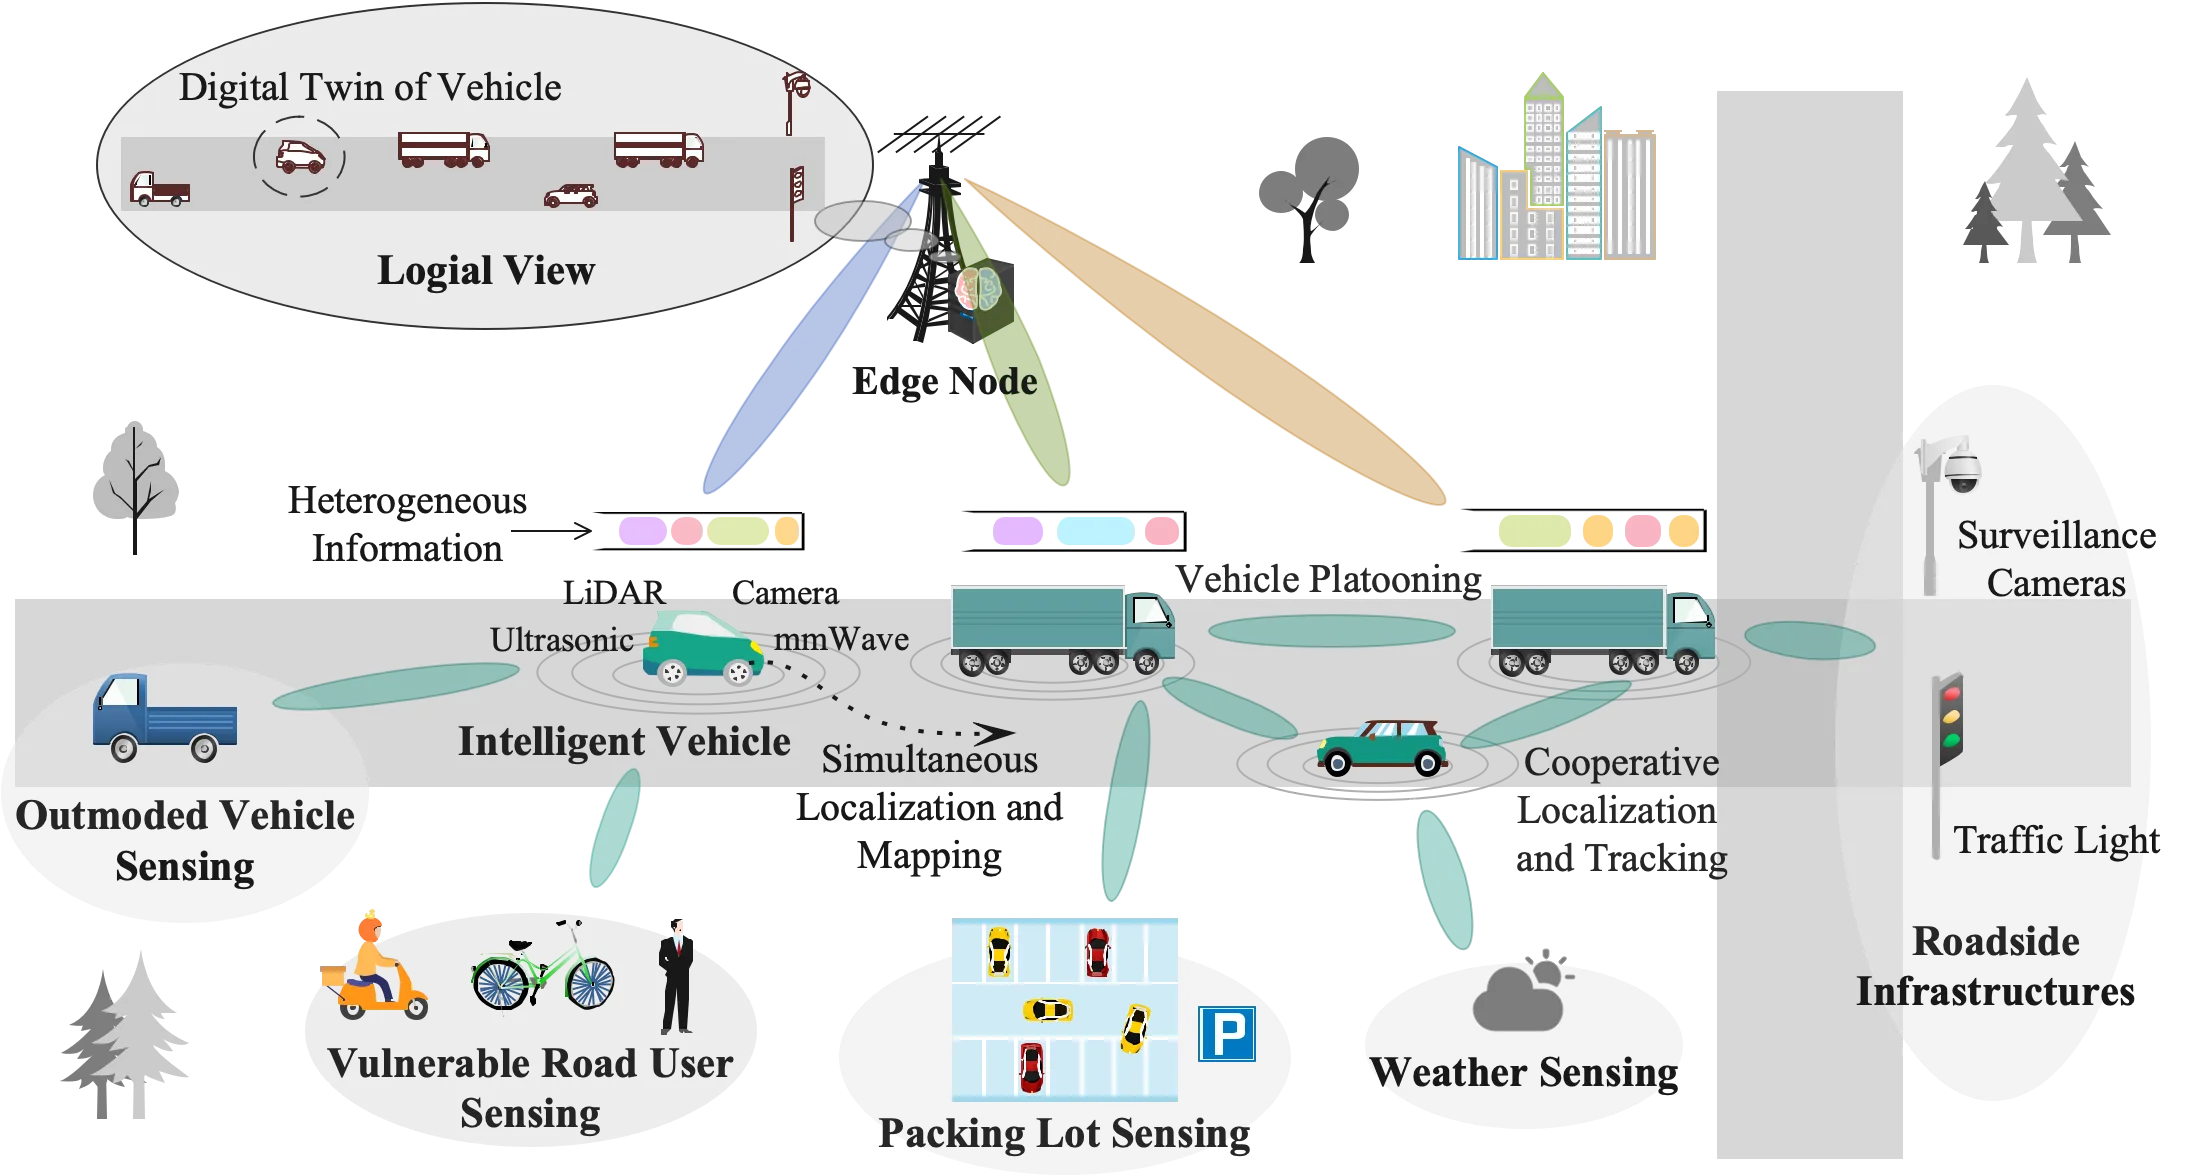
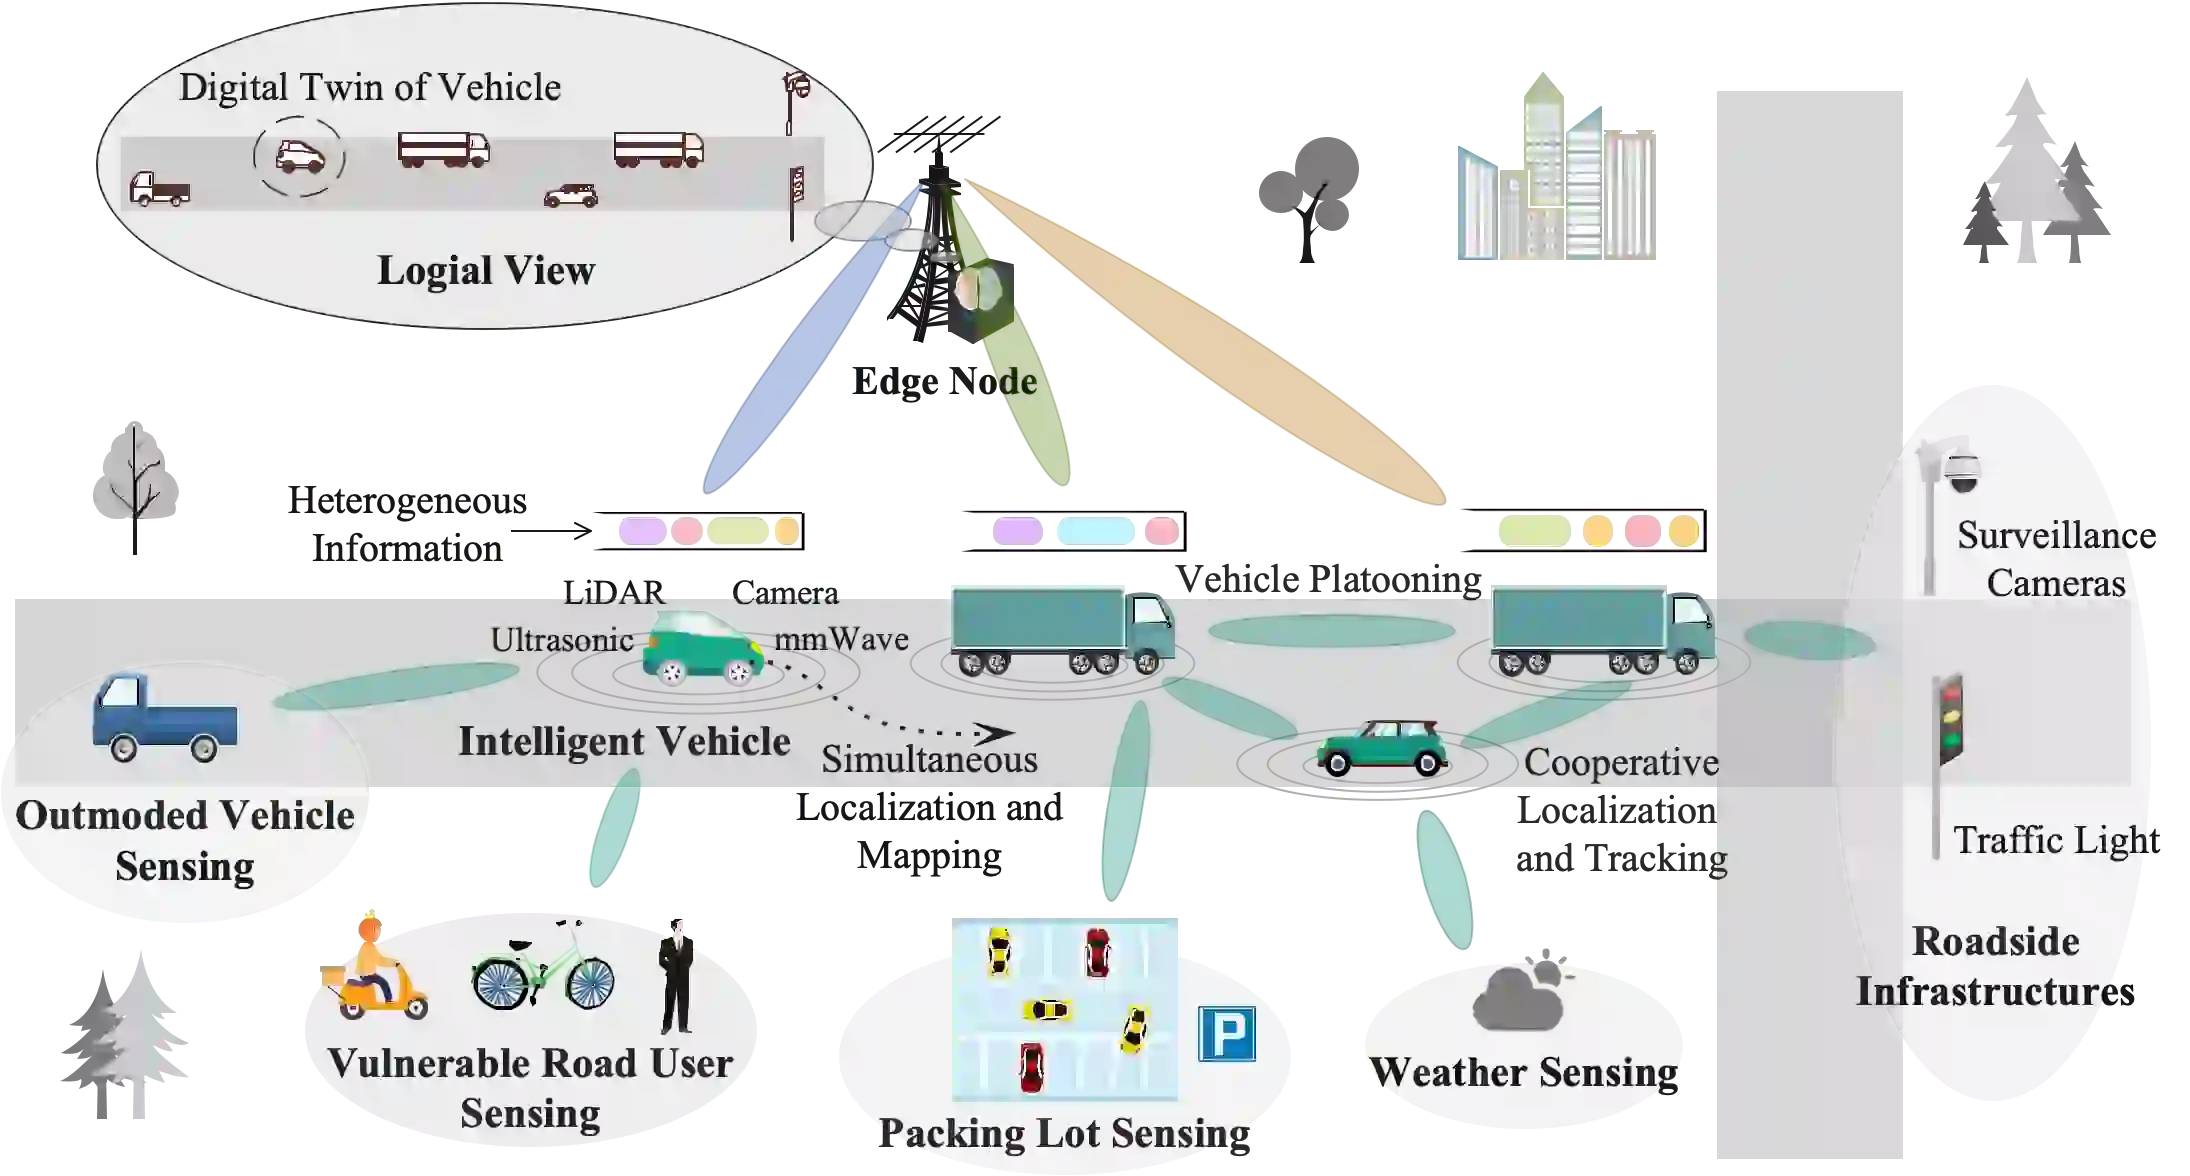
Performance optimizations: - Add lazy loading for images and iframes - Add DNS prefetch and preconnect for CDN - Add font-display: swap for Font Awesome - Compress large WebP images (saved ~1.5MB)

diff --git a/_includes/head.html b/_includes/head.html
@@ -2,6 +2,11 @@
 
 {% include seo.html %}
 
+<!-- Resource Hints for Performance -->
+<link rel="dns-prefetch" href="//cdnjs.cloudflare.com">
+<link rel="dns-prefetch" href="//scholar.google.com">
+<link rel="preconnect" href="//cdnjs.cloudflare.com" crossorigin>
+
 <meta name="HandheldFriendly" content="True">
 <meta name="MobileOptimized" content="320">
 <meta name="viewport" content="width=device-width, initial-scale=1.0">
@@ -12,6 +17,9 @@
 
 <!-- For all browsers -->
 <link rel="stylesheet" href="/assets/css/main.css">
+
+<!-- Lazy loading -->
+<script src="/assets/js/lazyload.js" async></script>
 
 {% if page.custom_css %}
 <link rel="stylesheet" href="/assets/css/{{ page.custom_css }}.css">

diff --git a/assets/js/lazyload.js b/assets/js/lazyload.js
@@ -1,0 +1,14 @@
+// Lazy loading for images
+document.addEventListener('DOMContentLoaded', function() {
+  // Add loading="lazy" to all images that don't have it
+  const images = document.querySelectorAll('img:not([loading])');
+  images.forEach(img => {
+    img.setAttribute('loading', 'lazy');
+  });
+  
+  // Add loading="lazy" to iframes
+  const iframes = document.querySelectorAll('iframe:not([loading])');
+  iframes.forEach(iframe => {
+    iframe.setAttribute('loading', 'lazy');
+  });
+});
